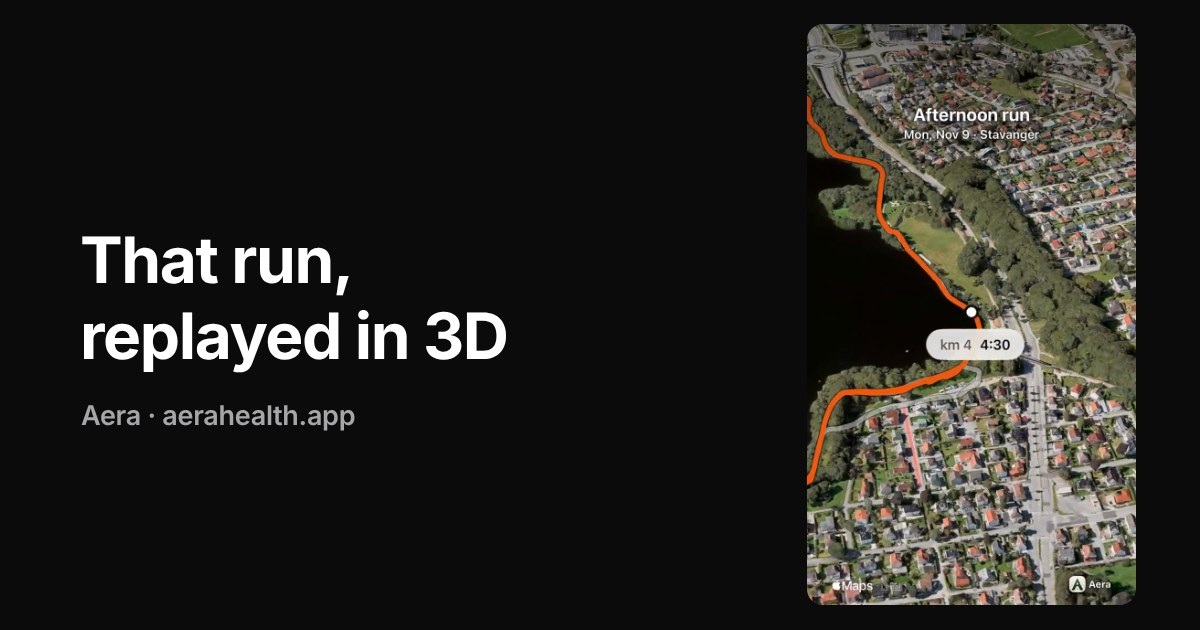
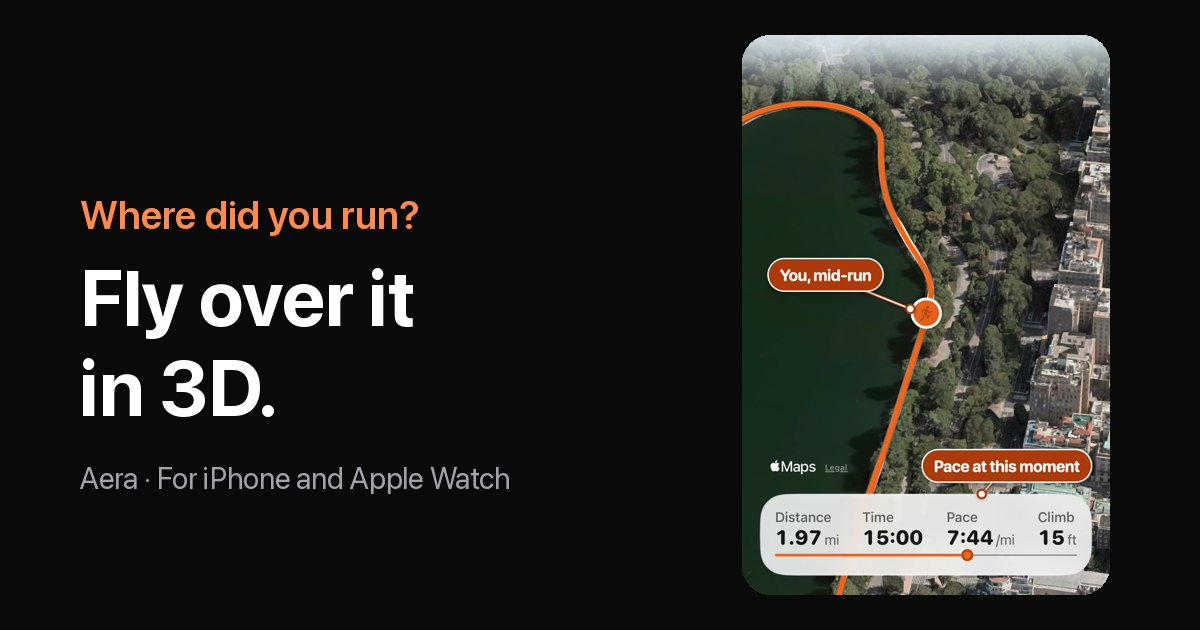
Shared Flyover link (/replay): on a computer or Android, a page with the store line (Where did you run? Fly over it in 3D.), the film and a code to scan with the iPhone, in English, Hungarian or German; iPhone goes straight to the App Store as before; new link preview

diff --git a/replay/index.html b/replay/index.html
@@ -2,11 +2,12 @@
 <html lang="en"><head><meta charset="utf-8">
 <meta name="viewport" content="width=device-width, initial-scale=1">
 <meta name="robots" content="noindex">
-<title>That run, replayed in 3D · Aera</title>
-<meta name="description" content="A run flown again over the real ground, with its pace, heart rate and climb. Shared from Aera, for iPhone and Apple Watch.">
+<title>Fly over it in 3D · Aera</title>
+<meta name="description" content="Aera turns a run, walk or ride into a 3D film over the real ground. For iPhone and Apple Watch.">
 <link rel="canonical" href="https://aerahealth.app/replay/">
-<meta property="og:title" content="That run, replayed in 3D">
-<meta property="og:description" content="A run flown again over the real ground, with its pace, heart rate and climb. Shared from Aera, for iPhone and Apple Watch.">
+<link rel="icon" href="/assets/icon.png">
+<meta property="og:title" content="Where did you run? Fly over it in 3D.">
+<meta property="og:description" content="Aera turns a run, walk or ride into a 3D film over the real ground. For iPhone and Apple Watch.">
 <meta property="og:type" content="website">
 <meta property="og:site_name" content="Aera">
 <meta property="og:url" content="https://aerahealth.app/replay/">
@@ -14,20 +15,83 @@
 <meta property="og:image:width" content="1200">
 <meta property="og:image:height" content="630">
 <meta name="twitter:card" content="summary_large_image">
-<meta name="twitter:title" content="That run, replayed in 3D">
-<meta name="twitter:description" content="A run flown again over the real ground, with its pace, heart rate and climb. Shared from Aera, for iPhone and Apple Watch.">
+<meta name="twitter:title" content="Where did you run? Fly over it in 3D.">
+<meta name="twitter:description" content="Aera turns a run, walk or ride into a 3D film over the real ground. For iPhone and Apple Watch.">
 <meta name="twitter:image" content="https://aerahealth.app/assets/share/replay.jpg">
-<meta http-equiv="refresh" content="2; url=https://apps.apple.com/app/id6762456252?pt=128795793&amp;ct=share-replay&amp;mt=8">
+<noscript><meta http-equiv="refresh" content="0; url=https://apps.apple.com/app/id6762456252?pt=128795793&amp;ct=share-replay&amp;mt=8"></noscript>
 <script>
-// The link that travels beside a shared replay video (the app's ShareAddress.replayCaption).
-// Same pattern as /s and /get: let the Cloudflare beacon report the visit first, then go.
-// Link previews read the meta above and never run this.
+// The link that travels beside a shared Flyover video (the app's ShareAddress.replayCaption; the path stays
+// /replay because builds in people's hands send it). On an iPhone or iPad: on to the App Store after a moment,
+// so the Cloudflare beacon can count the visit first (go anyway at 1.5 s). Anywhere else the App Store can't
+// install an iPhone app, so the page stays: the film, the store picture's line and a code to scan with the
+// iPhone (the scan opens this same page there). Link previews read the meta above and never run this.
 (function () {
-  var go = function () { location.replace("https://apps.apple.com/app/id6762456252?pt=128795793&ct=share-replay&mt=8"); };
-  addEventListener('load', function () { setTimeout(go, 400); });
-  setTimeout(go, 1500);
+  var store = "https://apps.apple.com/app/id6762456252?pt=128795793&ct=share-replay&mt=8";
+  var ios = /iPhone|iPad|iPod/.test(navigator.userAgent) ||
+    (navigator.platform === 'MacIntel' && navigator.maxTouchPoints > 1);
+  if (ios) {
+    var go = function () { location.replace(store); };
+    addEventListener('load', function () { setTimeout(go, 400); });
+    setTimeout(go, 1500);
+    return;
+  }
+  document.documentElement.className = 'desk';
+  var words = {
+    en: ["Where did you run?", "Fly over it in 3D.",
+         "Aera turns a run, walk or ride into a 3D film over the real ground. Free for the last 7 days.",
+         "Point your iPhone's camera at the code to get Aera.", "Or open the App Store page",
+         "For iPhone and Apple Watch. Free to start. No account."],
+    hu: ["Merre futottál?", "Repüld végig 3D\u2011ben.",
+         "Az Aera a futásodból, sétádból vagy bringázásodból 3D-s filmet készít a valódi terep fölött. Az elmúlt 7 nap ingyen.",
+         "Irányítsd rá az iPhone-od kameráját, és megnyílik az Aera az App Store-ban.", "Vagy nyisd meg az App Store-oldalt",
+         "iPhone-ra és Apple Watch-ra. Ingyen letölthető. Regisztráció nélkül."],
+    de: ["Wo bist du gelaufen?", "Flieg drüber in 3D.",
+         "Aera macht aus deinem Lauf, deiner Wanderung oder Radtour einen 3D-Film über echtem Gelände. Die letzten 7 Tage kostenlos.",
+         "Richte die Kamera deines iPhones auf den Code, dann öffnet sich Aera im App Store.", "Oder öffne die App-Store-Seite",
+         "Für iPhone und Apple Watch. Kostenlos, ohne Konto."]
+  };
+  var lang = (navigator.language || 'en').slice(0, 2);
+  if (!words[lang]) lang = 'en';
+  addEventListener('DOMContentLoaded', function () {
+    document.documentElement.lang = lang;
+    ['q', 'a', 'line', 'scan', 'link', 'fine'].forEach(function (id, i) { document.getElementById(id).textContent = words[lang][i]; });
+    document.getElementById('film').src = '/assets/share/flyover-' + lang + '.jpg';
+    import('/plan/qr.mjs').then(function (m) {
+      document.getElementById('code').innerHTML = m.qrSvg(location.origin + location.pathname, { dark: '#1c1c1e', light: '#ffffff' });
+    });
+  });
 })();
 </script>
-<style>body{margin:0;min-height:100vh;display:grid;place-items:center;font:17px/1.4 -apple-system,system-ui,sans-serif;background:#f6f4ef;color:#1c1c1e}@media (prefers-color-scheme:dark){body{background:#0b0b0c;color:#f2f2f2}}a{color:inherit}</style>
 <script defer src="https://static.cloudflareinsights.com/beacon.min.js" data-cf-beacon='{"token": "4fc0403d67364f1ab92526387bdd0b81"}'></script>
-</head><body><p><a href="https://apps.apple.com/app/id6762456252?pt=128795793&amp;ct=share-replay&amp;mt=8">Open Aera on the App Store</a></p></body></html>
+<style>
+body{margin:0;min-height:100vh;display:grid;place-items:center;font:17px/1.45 -apple-system,system-ui,sans-serif;background:#0b0b0c;color:#f2f2f2}
+a{color:inherit}
+.panel{display:none}.desk .go{display:none}
+.desk .panel{display:grid;grid-template-columns:minmax(0,1fr) 320px;gap:56px;align-items:center;max-width:960px;padding:48px 28px;box-sizing:border-box}
+.text{display:grid;gap:14px;justify-items:start}
+.text img.icon{width:56px;height:56px;border-radius:13px}
+#q{margin:6px 0 0;font:600 26px/1.2 -apple-system,system-ui,sans-serif;color:#ff8a4c}
+#a{margin:0;font:700 clamp(40px,5.4vw,60px)/1.04 -apple-system,system-ui,sans-serif;letter-spacing:-.02em;text-wrap:balance}
+#line{margin:0;color:#b9bdc2;max-width:30em}
+.get{display:flex;gap:16px;align-items:center;margin-top:10px}
+#code{width:132px;height:132px;padding:10px;background:#fff;border-radius:18px;flex:none}
+#code svg{display:block;width:100%;height:100%}
+.get p{margin:0;font-size:15px;color:#b9bdc2;max-width:15em}
+.get a{display:block;margin-top:6px;color:#f2f2f2}
+#fine{margin:6px 0 0;font-size:13px;color:#8a8f94}
+#film{width:100%;border-radius:28px;box-shadow:0 30px 60px -30px rgba(0,0,0,.8)}
+@media (max-width:760px){.desk .panel{grid-template-columns:minmax(0,1fr);gap:28px}#film{max-width:320px}}
+</style>
+</head><body><p class="go"><a href="https://apps.apple.com/app/id6762456252?pt=128795793&amp;ct=share-replay&amp;mt=8">Open Aera on the App Store</a></p>
+<main class="panel">
+  <div class="text">
+    <img class="icon" src="/assets/icon.png" alt="Aera">
+    <p id="q">Where did you run?</p>
+    <h1 id="a">Fly over it in 3D.</h1>
+    <p id="line">Aera turns a run, walk or ride into a 3D film over the real ground. Free for the last 7 days.</p>
+    <div class="get"><div id="code" role="img" aria-label="Code to open Aera on an iPhone"></div><p><span id="scan">Point your iPhone's camera at the code to get Aera.</span><a id="link" href="https://apps.apple.com/app/id6762456252?pt=128795793&amp;ct=share-replay&amp;mt=8">Or open the App Store page</a></p></div>
+    <p id="fine">For iPhone and Apple Watch. Free to start. No account.</p>
+  </div>
+  <img id="film" src="/assets/share/flyover-en.jpg" alt="A run as a 3D film over the real ground, in Aera">
+</main>
+</body></html>
